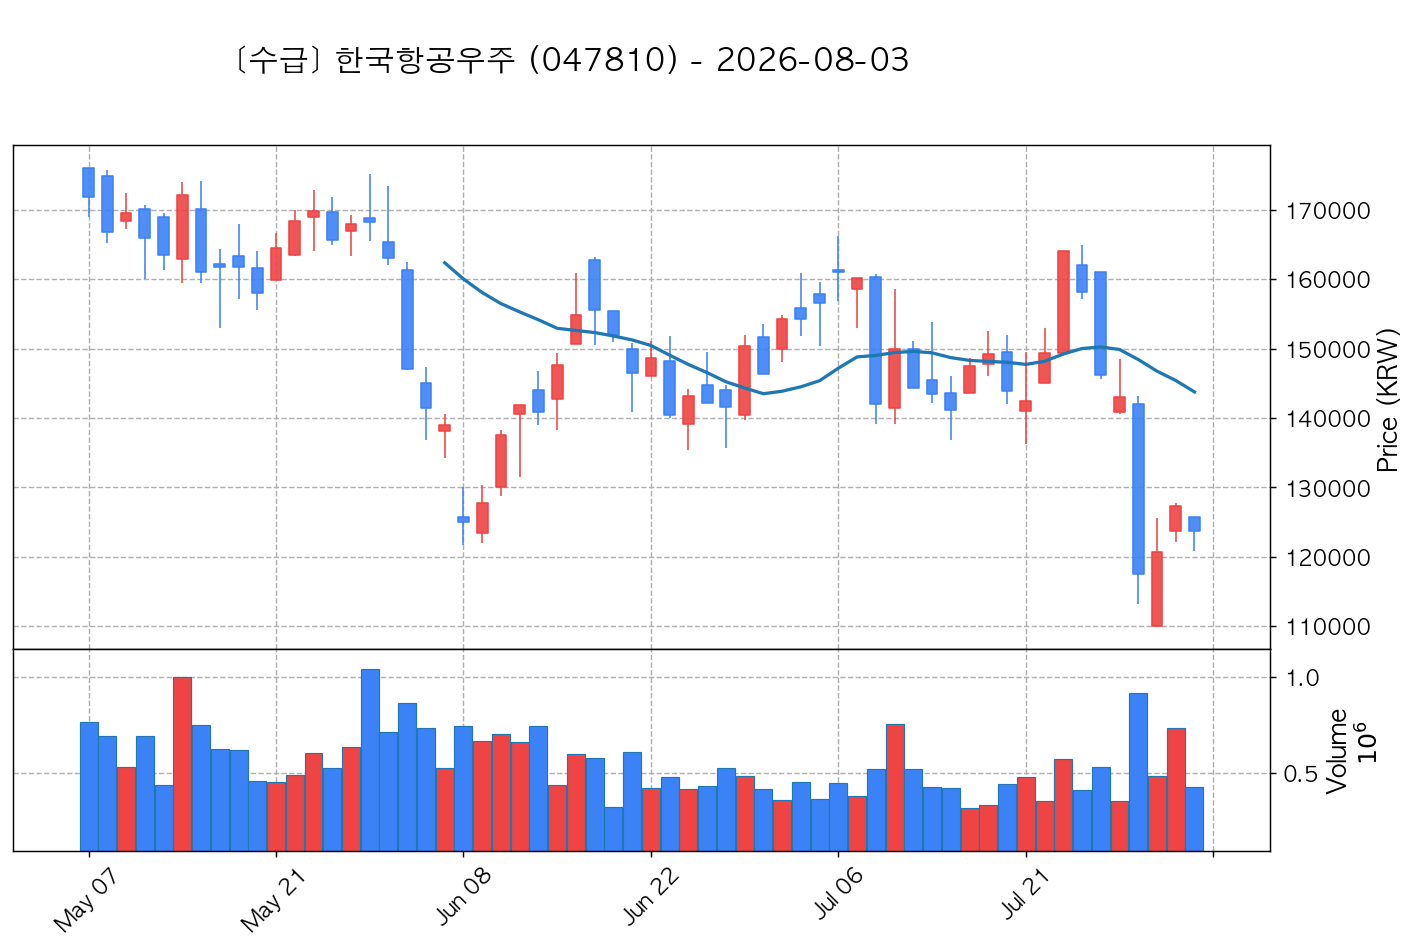
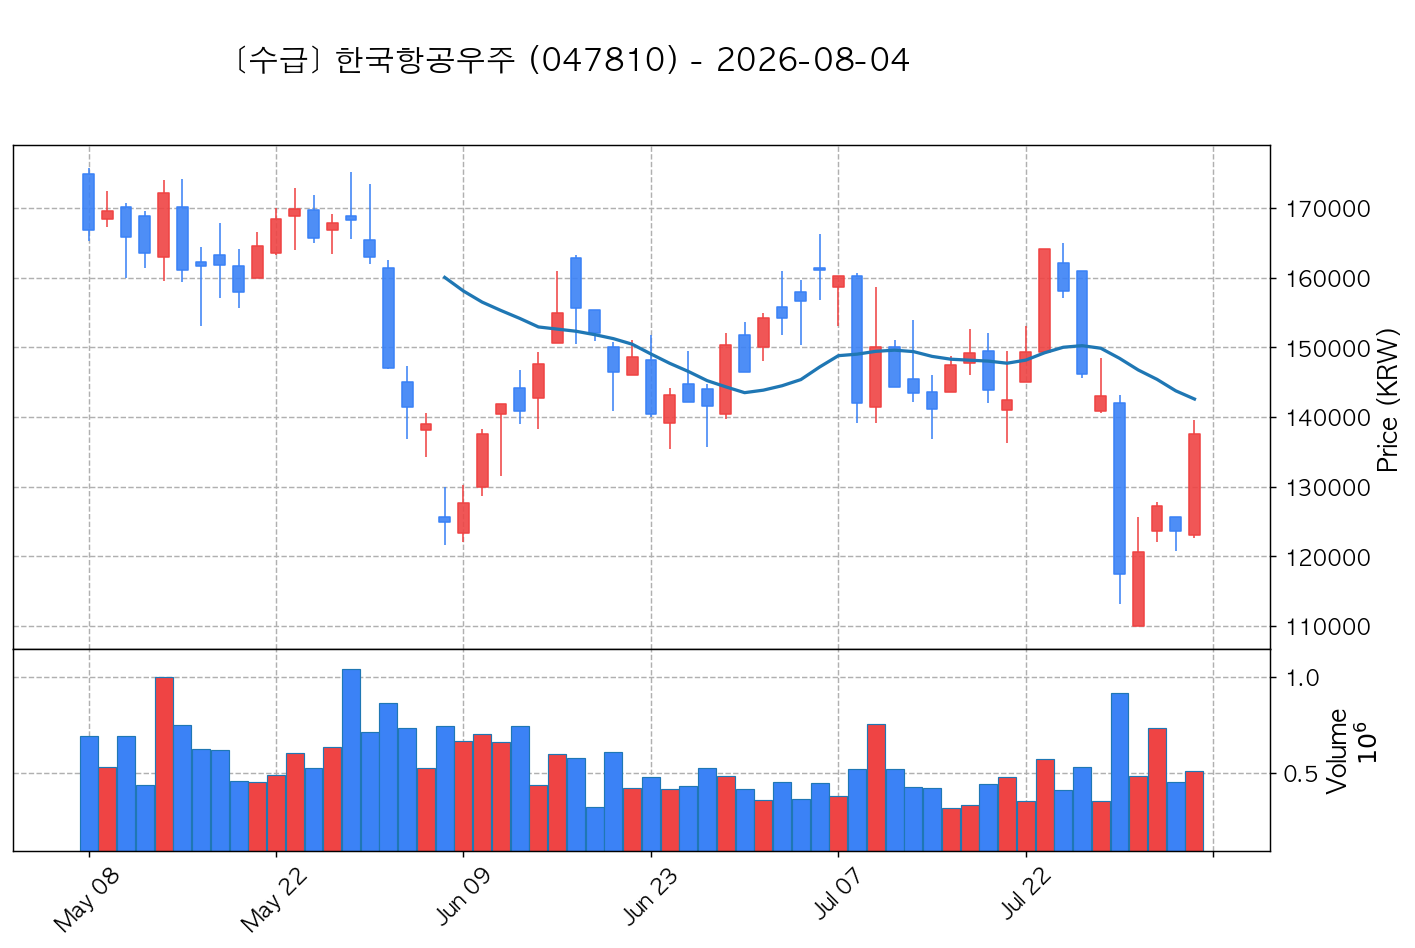
auto: 2026-08-04 스크리닝 보고서 및 차트 업데이트 (안전성 강화)

diff --git a/reports/2026-08-04_스크리닝.html b/reports/2026-08-04_스크리닝.html
@@ -64,14 +64,14 @@ footer { text-align: center; padding: 3rem 1.5rem; color: var(--muted); font-siz
   <div class="badge-main">실전플랜 1 · 매매전 스크리닝</div>
   <h1>📈 2026-08-04 매매 후보 스크리닝</h1>
   <p class="subtitle">2026-08-04 종가 기준 500개 전수 스캔 및 심층 분석 차트 보고서</p>
-  <p class="meta-info">포착 기준일: 2026-08-04 | 매매 추적일: 2026-08-04 (진입예정) | 생성: 2026-08-05 05:53</p>
+  <p class="meta-info">포착 기준일: 2026-08-04 | 매매 추적일: 2026-08-04 (진입예정) | 생성: 2026-08-05 05:54</p>
   <div><a href="2026-08-04_피드백.html" style="display:inline-flex; align-items:center; gap:0.4rem; background:rgba(16, 185, 129, 0.2); border:1px solid rgba(16, 185, 129, 0.4); color:#34d399; text-decoration:none; padding:0.4rem 1rem; border-radius:50px; font-size:0.85rem; font-weight:700; margin-top:0.8rem;">📊 익일 매매 성과 피드백 보고서 보기 &rarr;</a></div>
 </header>
 
 <container>
 
   <div class="stats-grid">
-    <div class="stat-card"><div class="stat-num" style="color: #a5b4fc">37</div><div class="stat-label">전체 포착 종목</div></div>
+    <div class="stat-card"><div class="stat-num" style="color: #a5b4fc">38</div><div class="stat-label">전체 포착 종목</div></div>
     <div class="stat-card"><div class="stat-num" style="color: #fbbf24">6</div><div class="stat-label">★ TOP 정예 종목</div></div>
     <div class="stat-card"><div class="stat-num" style="color: #34d399">39%</div><div class="stat-label">총 포지션 비중</div></div>
     <div class="stat-card"><div class="stat-num" style="color: #f472b6">2026-08-04</div><div class="stat-label">매매 추적일</div></div>
@@ -610,7 +610,7 @@ footer { text-align: center; padding: 3rem 1.5rem; color: var(--muted); font-siz
   <div class="section">
     <div class="section-header">
       <span class="section-title">🟢 전략 3 &mdash; 수급 낙폭과대 바닥형</span>
-      <span style="font-size:0.9rem; color:var(--muted)">총 2개 포착 (상위 2개 표시)</span>
+      <span style="font-size:0.9rem; color:var(--muted)">총 3개 포착 (상위 3개 표시)</span>
     </div>
     <div class="stock-grid">
 
@@ -651,32 +651,66 @@ footer { text-align: center; padding: 3rem 1.5rem; color: var(--muted); font-siz
       <div class="stock-card top-choice">
         <div class="stock-header">
           <div class="stock-name-box">
-            <span class="stock-name">한국전력</span>
-            <span class="stock-code">015760</span>
+            <span class="stock-name">한국항공우주</span>
+            <span class="stock-code">047810</span>
             <span class="tag-badge tag-top1">★ TOP 2 선택</span>
           </div>
-          <div style="font-weight:700; color:#fbbf24; font-size:1.1rem">35,150원 (448억)</div>
+          <div style="font-weight:700; color:#fbbf24; font-size:1.1rem">137,500원 (703억)</div>
         </div>
         <div class="stock-body">
           <div class="chart-container">
-            <img src="charts/chart_015760_한국전력.png" alt="한국전력 차트" class="chart-img">
+            <img src="charts/chart_047810_한국항공우주.png" alt="한국항공우주 차트" class="chart-img">
           </div>
           <div class="info-panel">
             
             <div class="metrics-row">
-              <div class="metric-box"><div class="metric-val">35,150원</div><div class="metric-lbl">기준 종가</div></div>
-              <div class="metric-box"><div class="metric-val" style="color:#ef4444">448억</div><div class="metric-lbl">거래대금</div></div>
+              <div class="metric-box"><div class="metric-val">137,500원</div><div class="metric-lbl">기준 종가</div></div>
+              <div class="metric-box"><div class="metric-val" style="color:#ef4444">703억</div><div class="metric-lbl">거래대금</div></div>
               <div class="metric-box"><div class="metric-val">+0.00%</div><div class="metric-lbl">당일 등락률</div></div>
             </div>
             
             <div class="strategy-setup">
-              <div class="setup-row"><span>🎯 목표 익절가</span><strong style="color:#34d399">36,204원 (+3%)</strong></div>
-              <div class="setup-row"><span>📍 매수 대기선</span><strong>35,150원 부근</strong></div>
-              <div class="setup-row"><span>🛑 손절가</span><span>34,025원 (-3%)</span></div>
+              <div class="setup-row"><span>🎯 목표 익절가</span><strong style="color:#34d399">141,625원 (+3%)</strong></div>
+              <div class="setup-row"><span>📍 매수 대기선</span><strong>137,500원 부근</strong></div>
+              <div class="setup-row"><span>🛑 손절가</span><span>133,100원 (-3%)</span></div>
             </div>
 
             <div class="opinion-box">
-              <strong>💡 분석 의견 & 복기:</strong><br>52주 고점 대비 (50.6%) ➔ 20일 메이저 수급 100억+ 유입 ➔ 없음 지지 안착
+              <strong>💡 분석 의견 & 복기:</strong><br>52주 고점 대비 (63.8%) ➔ 20일 메이저 수급 100억+ 유입 ➔ 240일선 지지 안착
+            </div>
+          </div>
+        </div>
+      </div>
+
+      <div class="stock-card">
+        <div class="stock-header">
+          <div class="stock-name-box">
+            <span class="stock-name">BNK금융지주</span>
+            <span class="stock-code">138930</span>
+            <span class="tag-badge tag-sub">후보군</span>
+          </div>
+          <div style="font-weight:700; color:#fbbf24; font-size:1.1rem">15,110원 (163억)</div>
+        </div>
+        <div class="stock-body">
+          <div class="chart-container">
+            <img src="charts/chart_138930_BNK금융지주.png" alt="BNK금융지주 차트" class="chart-img">
+          </div>
+          <div class="info-panel">
+            
+            <div class="metrics-row">
+              <div class="metric-box"><div class="metric-val">15,110원</div><div class="metric-lbl">기준 종가</div></div>
+              <div class="metric-box"><div class="metric-val" style="color:#ef4444">163억</div><div class="metric-lbl">거래대금</div></div>
+              <div class="metric-box"><div class="metric-val">+0.00%</div><div class="metric-lbl">당일 등락률</div></div>
+            </div>
+            
+            <div class="strategy-setup">
+              <div class="setup-row"><span>🎯 목표 익절가</span><strong style="color:#34d399">15,563원 (+3%)</strong></div>
+              <div class="setup-row"><span>📍 매수 대기선</span><strong>15,110원 부근</strong></div>
+              <div class="setup-row"><span>🛑 손절가</span><span>14,626원 (-3%)</span></div>
+            </div>
+
+            <div class="opinion-box">
+              <strong>💡 분석 의견 & 복기:</strong><br>52주 고점 대비 (65.6%) ➔ 20일 메이저 수급 100억+ 유입 ➔ 없음 지지 안착
             </div>
           </div>
         </div>
@@ -688,7 +722,7 @@ footer { text-align: center; padding: 3rem 1.5rem; color: var(--muted); font-siz
 </container>
 
 <footer>
-  실전플랜 1 · 매매전 스크리닝 · 생성일시: 2026-08-05 05:53 · 리포트 시스템
+  실전플랜 1 · 매매전 스크리닝 · 생성일시: 2026-08-05 05:54 · 리포트 시스템
 </footer>
 
 </body>

diff --git a/index.html b/index.html
@@ -628,7 +628,7 @@
                     <span style="color: #d97706; font-size: 0.75rem; font-weight: 700;">TOP 선택</span>
                 </div>
                 <ul style="list-style: none; padding: 0; margin: 0; font-size: 0.85rem; color: #1e293b; display: flex; flex-direction: column; gap: 0.6rem;">
-                    <li style="line-height: 1.4; margin-bottom: 0;">★ <b>[삼성중공업]</b> 21,650원 | 기관 -96억 / 외인 +586억</li><li style="line-height: 1.4; margin-bottom: 0;">★ <b>[한국전력]</b> 35,150원 | 기관 -544억 / 외인 +1017억</li>
+                    <li style="line-height: 1.4; margin-bottom: 0;">★ <b>[삼성중공업]</b> 21,650원 | 기관 -96억 / 외인 +586억</li><li style="line-height: 1.4; margin-bottom: 0;">★ <b>[한국항공우주]</b> 137,500원 | 기관 +1342억 / 외인 -1351억</li><li style="line-height: 1.4; margin-bottom: 0; color:#64748b;">• <b>[BNK금융지주]</b> 15,110원 | 기관 +249억 / 외인 -397억 (후보)</li>
                 </ul>
             </div>
         </div>

diff --git a/reports/2026-08-04_스크리닝.md b/reports/2026-08-04_스크리닝.md
@@ -10,8 +10,8 @@
 | :--- | :--- | :---: |
 | **전략 1** | 양음양 눌림목 & 사윗감 | 30개 (TOP 3개) |
 | **전략 2** | 매집봉 & 이일홍 | 5개 (TOP 1개) |
-| **전략 3** | 수급 & 핥 | 2개 (TOP 2개) |
-| **합계** | **3대 핵심 전략 통합** | **37개 (TOP 6개)** |
+| **전략 3** | 수급 & 핥 | 3개 (TOP 2개) |
+| **합계** | **3대 핵심 전략 통합** | **38개 (TOP 6개)** |
 
 ---
 
@@ -144,12 +144,13 @@
 
 ## 🟢 5. 전략 3 — 수급 낙폭과대 바닥형 (10% × 2슬롯)
 
-### 📋 전략 3 요약표 (상위 2개)
+### 📋 전략 3 요약표 (상위 3개)
 
 | 종목명 | 기준일종가 | 기준봉 | 지지선 | 비고 및 선정 상태 |
 | :--- | ---: | :--- | :---: | :--- |
 | **삼성중공업** (010140) | 21,650원 | 52주 고점 대비 (61.2%) ➔ 20일 메이저 수급 100억+ 유입 ➔ 없음 지지 안착 | 수급선 | **★ TOP 1 선택** |
-| **한국전력** (015760) | 35,150원 | 52주 고점 대비 (50.6%) ➔ 20일 메이저 수급 100억+ 유입 ➔ 없음 지지 안착 | 수급선 | **★ TOP 2 선택** |
+| **한국항공우주** (047810) | 137,500원 | 52주 고점 대비 (63.8%) ➔ 20일 메이저 수급 100억+ 유입 ➔ 240일선 지지 안착 | 수급선 | **★ TOP 2 선택** |
+| **BNK금융지주** (138930) | 15,110원 | 52주 고점 대비 (65.6%) ➔ 20일 메이저 수급 100억+ 유입 ➔ 없음 지지 안착 | 수급선 | 후보군 (1위) |
 
 ---
 
@@ -161,9 +162,15 @@
 - **기준 종가**: 21,650원 | **거래대금**: 770억
 - **분석 사유**: 52주 고점 대비 (61.2%) ➔ 20일 메이저 수급 100억+ 유입 ➔ 없음 지지 안착
 
-#### 2) 한국전력 (015760) — ★ TOP 2 선택
-<p align="center"><img src="charts/chart_015760_한국전력.png" width="65%" alt="한국전력 차트"/></p>
+#### 2) 한국항공우주 (047810) — ★ TOP 2 선택
+<p align="center"><img src="charts/chart_047810_한국항공우주.png" width="65%" alt="한국항공우주 차트"/></p>
 
-- **기준 종가**: 35,150원 | **거래대금**: 448억
-- **분석 사유**: 52주 고점 대비 (50.6%) ➔ 20일 메이저 수급 100억+ 유입 ➔ 없음 지지 안착
+- **기준 종가**: 137,500원 | **거래대금**: 703억
+- **분석 사유**: 52주 고점 대비 (63.8%) ➔ 20일 메이저 수급 100억+ 유입 ➔ 240일선 지지 안착
+
+#### 3) BNK금융지주 (138930) — 후보군 (1위)
+<p align="center"><img src="charts/chart_138930_BNK금융지주.png" width="65%" alt="BNK금융지주 차트"/></p>
+
+- **기준 종가**: 15,110원 | **거래대금**: 163억
+- **분석 사유**: 52주 고점 대비 (65.6%) ➔ 20일 메이저 수급 100억+ 유입 ➔ 없음 지지 안착
 
